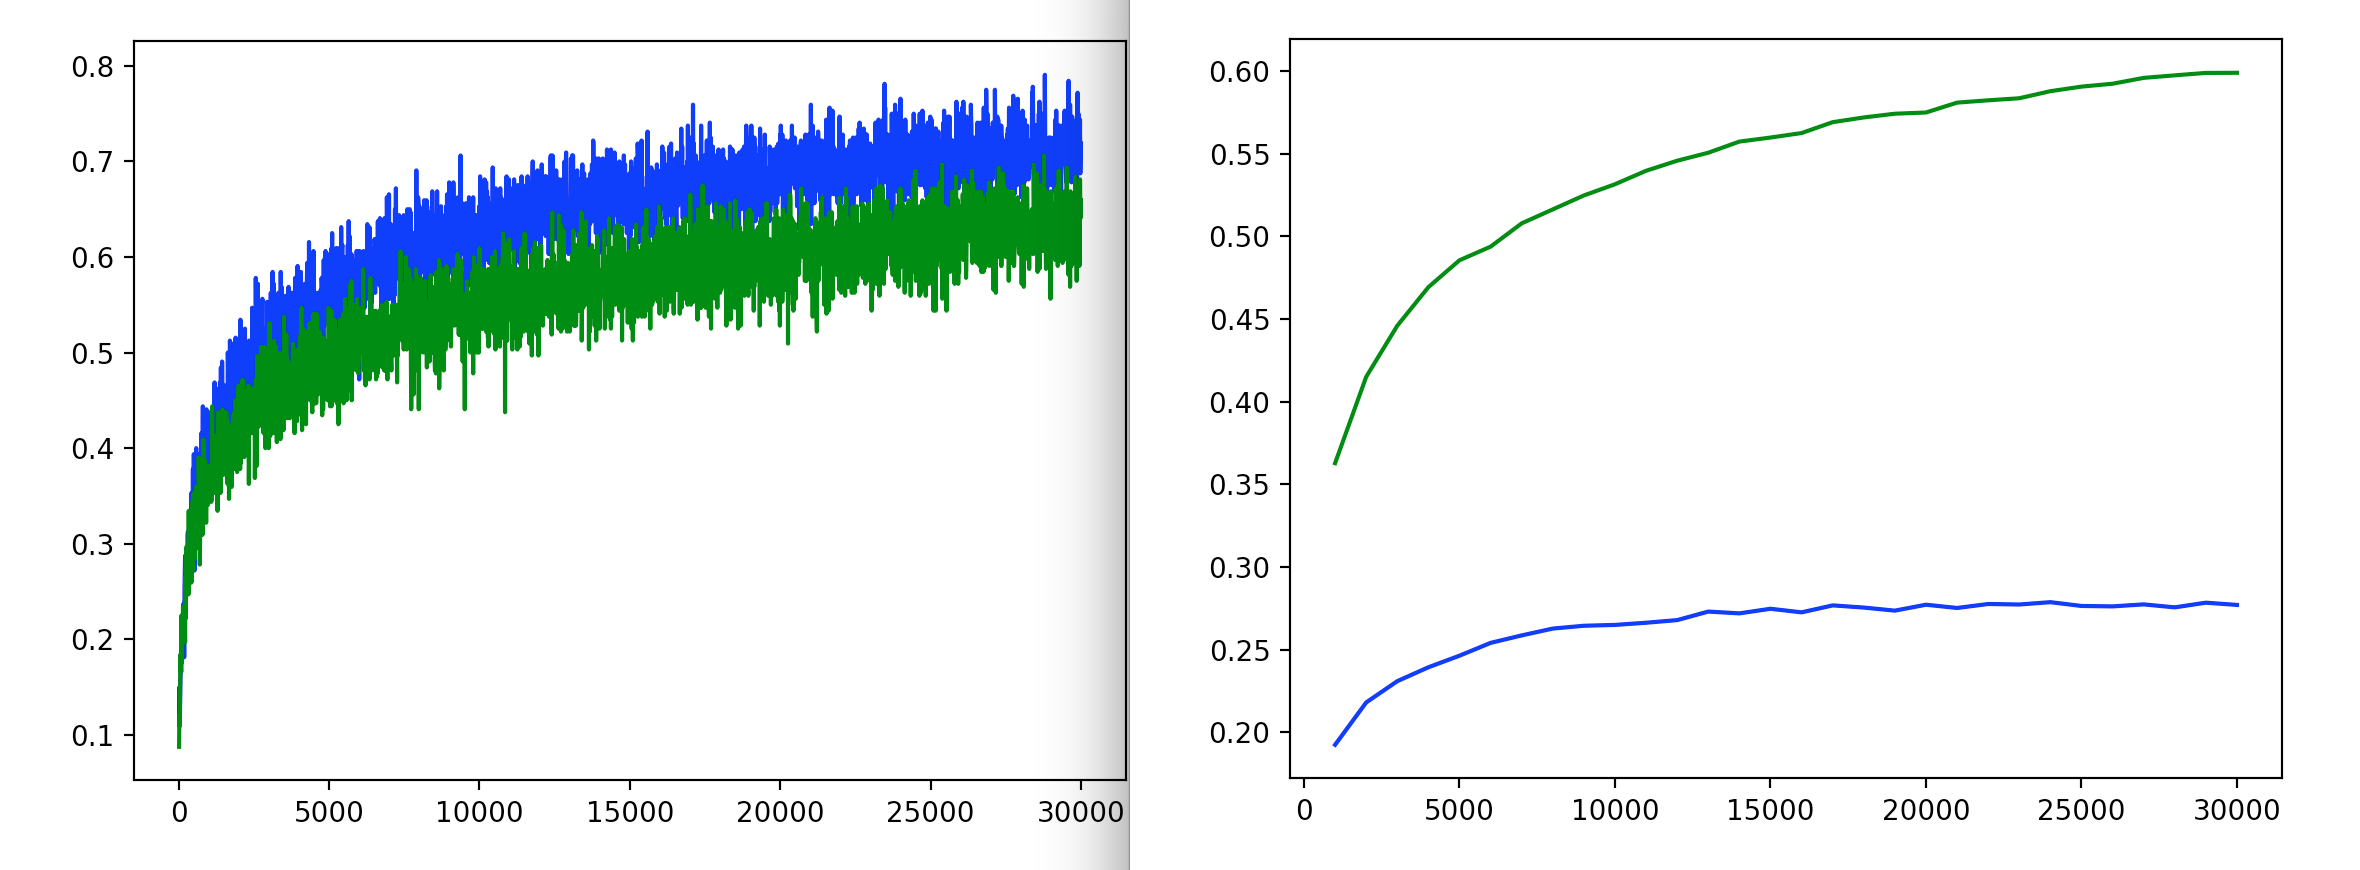
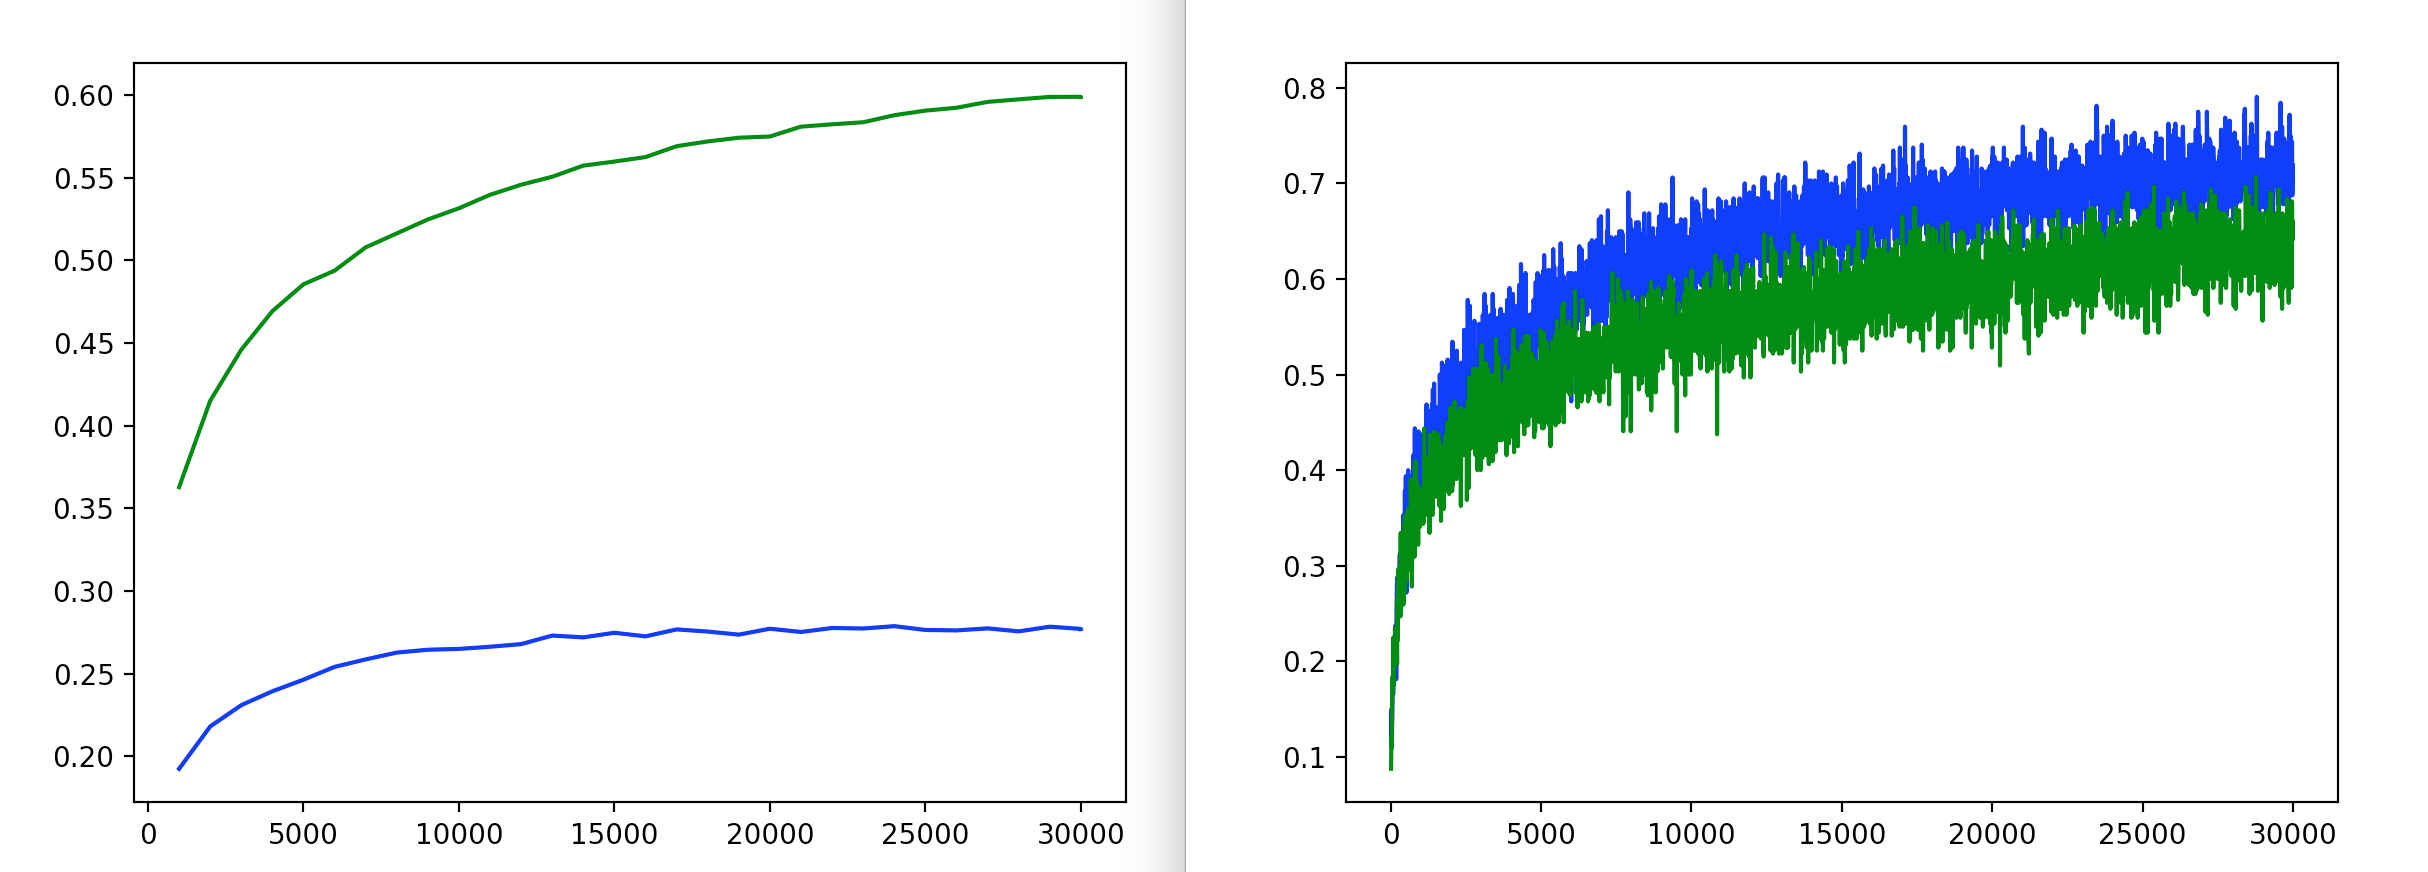
change to images

diff --git a/UpperRelu/graph_aggregates.py b/UpperRelu/graph_aggregates.py
@@ -10,10 +10,10 @@ for k in range(10):
 	dat_b = np.loadtxt('{}test_acc_cifar_upper{}.dat'.format(data_loc,k))
 	
 	#cut off data to a standard length
-	dat_a = dat_a[0:30,:]
-	dat_b = dat_b[0:30,:]
-	#dat_a = dat_a[0:1500,:]
-	#dat_b = dat_b[0:1500,:]
+	#dat_a = dat_a[0:30,:]
+	#dat_b = dat_b[0:30,:]
+	dat_a = dat_a[0:3000,:]
+	dat_b = dat_b[0:3000,:]
 	
 	datalistA.append(dat_a)
 	datalistB.append(dat_b)
@@ -26,8 +26,8 @@ dataB = np.mean(datalistB, 0)
 
 
 #cut off data to a standard length
-dataA = dataA[0:1500,:]
-dataB = dataB[0:1500,:]
+dataA = dataA[0:3000,:]
+dataB = dataB[0:3000,:]
 
 #plot
 plt.plot(dataA[:,0], dataA[:,1],'b-',

diff --git a/UpperRelu/README.md b/UpperRelu/README.md
@@ -84,7 +84,9 @@ accuracies are shown on the left.
 
 #### Batch Normalization (normal ReLU) vs. Upper ReLU - CIFAR
 <img src="./bnorm_vs_upperrelu_cifar.png" alt="B-Norm vs. Upper ReLU" width="700">
-
+*These results are particularly interesting.  They suggest that while batch 
+normalization allows a network to learn faster, it badly hurts its ability to learn
+the data. It could also be possible that 
 
 Using the Graphing File:
 ------------------------
